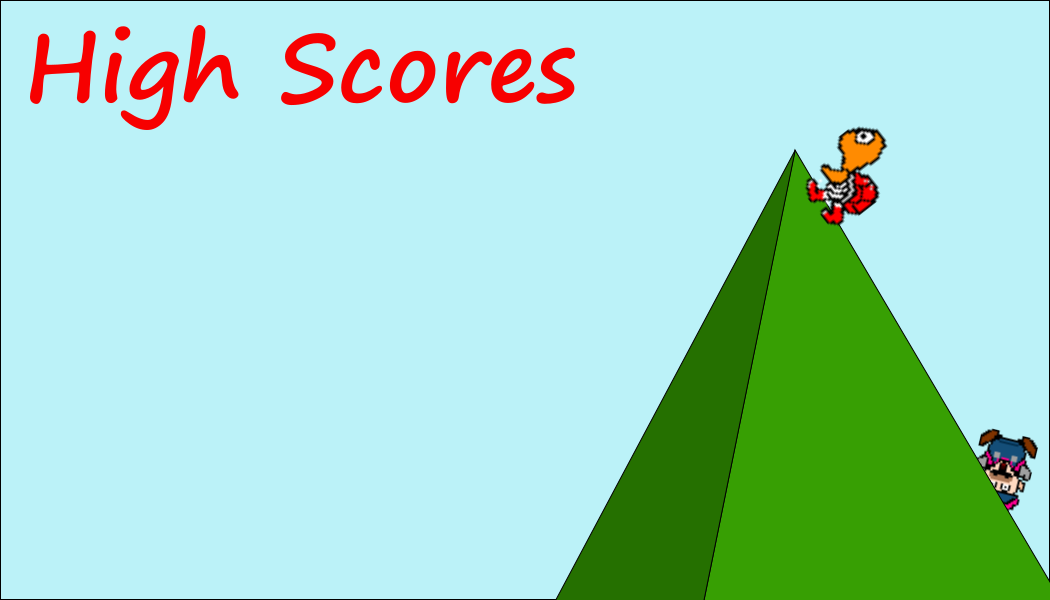
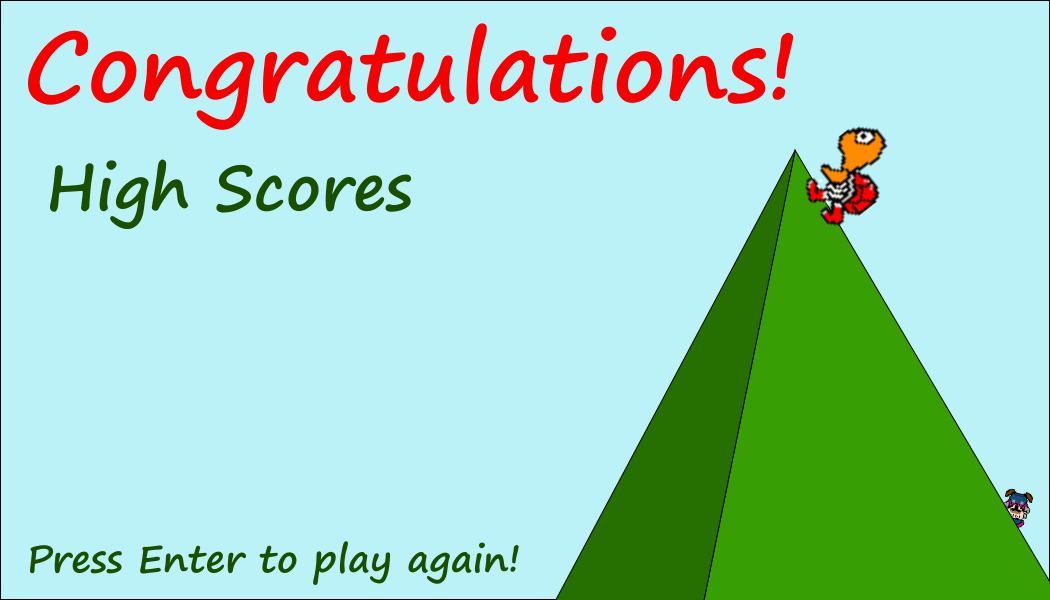
highscore screen

diff --git a/js/game.js b/js/game.js
@@ -1,5 +1,6 @@
 'use strict';
 
+//var IMAGE_GENERATING = document.getElementById('IMAGE_GENERATING');
 var IMAGE_HIGHSCORES = document.getElementById('IMAGE_HIGHSCORES');
 
 var GAME_TILE_SIZE = 30;
@@ -9,7 +10,7 @@ var GAME_HEIGHT = 20;
 var GRAVITY = 800;
 
 var GAME_PROTAGONISTS = 5;
-var GAME_PROTAGONISTS_TO_KILL = 100;
+var GAME_PROTAGONISTS_TO_KILL = 10;
 
 var GAME_PROTAGONIST_KILL_POINTS = 1000
 var GAME_PROTAGONIST_KILL_CHAIN_BONUS = 500;
@@ -35,6 +36,8 @@ window.addEventListener('load', function(){
 });
 
 function start(){
+	//ctx.drawImage(IMAGE_GENERATING, 0, 0);
+
 	var iterations = 0;
 	do{
 		if(typeof(animationFrame) !== 'undefined'){
@@ -135,7 +138,11 @@ function start(){
 		var protagonistsRemaining = GAME_PROTAGONISTS_TO_KILL - world.protagonistsKilled;
 		ctx.fillText(protagonistsRemaining + ' remaining', canvas.width - 15, 40);
 		
-		animationFrame = requestAnimationFrame(frame);
+		if(!world.finished){
+			animationFrame = requestAnimationFrame(frame);
+		}else{
+			showHighScores();
+		}
 	}
 	animationFrame = requestAnimationFrame(frame);
 
@@ -163,4 +170,8 @@ function start(){
 		music.play();
 		window.musicPlaying = true;
 	}
+}
+
+function showHighScores(){
+	ctx.drawImage(IMAGE_HIGHSCORES, 0, 0);
 }

diff --git a/index.html b/index.html
@@ -9,7 +9,7 @@
 				margin: 0px;
 			}
 			canvas{
-				background: #5555ff;
+				background: #000803;
 				display: block;
 				margin: 10px auto;
 			}
@@ -42,6 +42,7 @@
 		<img src="img/protagonist_walk.png" id="IMAGE_PROTAGONIST_WALK">
 		<img src="img/protagonist_walk_star.png" id="IMAGE_PROTAGONIST_WALK_STAR">
 		<img src="img/protagonist_death.png" id="IMAGE_PROTAGONIST_DEATH">
+		<!--<img src="img/generating.png" id="IMAGE_GENERATING">-->
 		<img src="img/background1.png" id="IMAGE_BACKGROUND1">
 		<!--<img src="img/background2.png" id="IMAGE_BACKGROUND2">-->
 		<img src="img/background3.png" id="IMAGE_BACKGROUND3">

diff --git a/js/world.js b/js/world.js
@@ -132,8 +132,10 @@ World.prototype.protagonistKill = function(protagonist){
 		this.protagonistPool.unshift(protagonist);
 		this.addProtagonist();
 		if(this.protagonistsKilled === GAME_PROTAGONISTS_TO_KILL){
-			alert('You win! Score: ' + this.score);
-			window.location.reload();
+			setTimeout(function(){
+				this.finished = true;
+			}.bind(this), 3000);
+			//alert('You win! Score: ' + this.score);
 		}
 	}
 }

diff --git a/js/controller.js b/js/controller.js
@@ -23,9 +23,9 @@ function Controller(){
 			case 80:
 				this.buttons.paused = !this.buttons.paused;
 				break;
-			case 76:
+			case 13:
 				this.buttons.paused = true;
-				if(confirm('Are you sure you want to go to a new level?')){
+				if(world.finished || confirm('Are you sure you want to go to a new level?')){
 					start()
 				}
 		}
